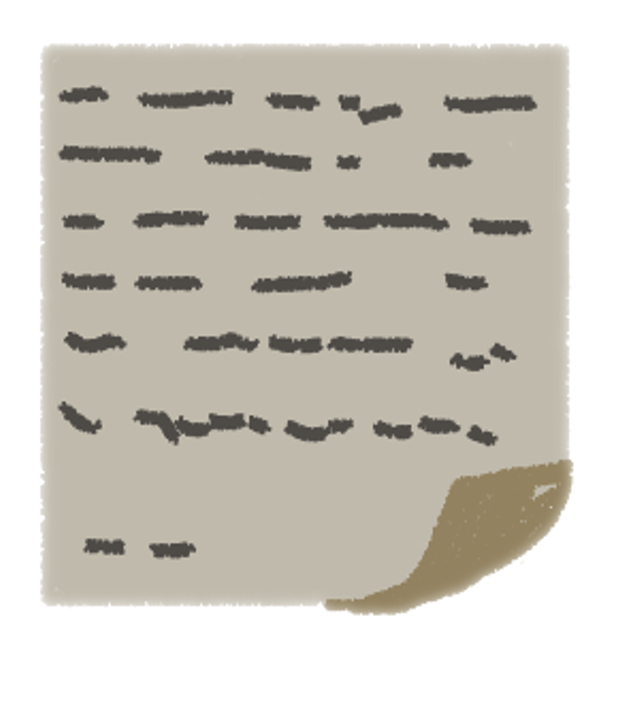
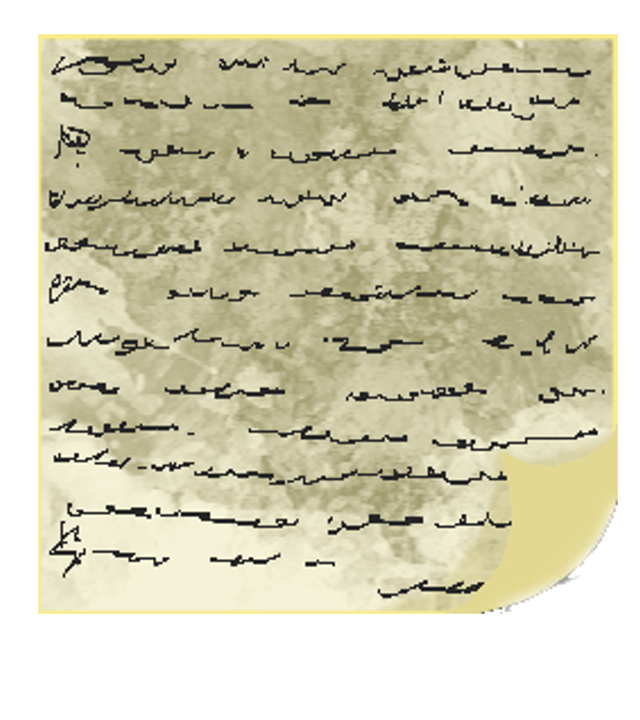
updated art

diff --git a/web/game.min.js b/web/game.min.js
@@ -483,7 +483,7 @@ return choices;},getTags:function(){return this.story.currentTags;},processTags:
 for(var j in this.tagLackHandlers){if(!usedTags[j]){this.tagLackHandlers[j]();}}}});});
 
 // lib/game/menu/daily.js
-ig.baked=true;ig.module('game.menu.daily').requires('impact.image','plugins.ss.menu.menu').defines(function(){ss.MenuImageOption=ss.MenuOption.extend({image:undefined,init:function(menu,image,action,x,y,padding,visible){this.parent(menu,function(){return"";},action,x,y,ig.Font.ALIGN.LEFT,padding,visible);if(image instanceof ig.Image===false)throw"image must be an ig.Image!";this.image=image;this.width=this.image.width;this.height=this.image.height;this.selectTarget.x=this.x-this.padding;this.selectTarget.y=this.y-this.padding;this.selectTarget.width=this.width+(this.padding*2);this.selectTarget.height=this.height+(this.padding*2);this.createTouchButton();},updateText:function(){return"";},draw:function(){this.image.draw(this.x,this.y);}});DailyMenu=ss.Menu.extend({useText:false,inkStory:undefined,inkStoryChoices:undefined,Page:{MAIN:0},day:0,actions:{prev:["up","left"],next:["down","right"],select:["primary"],back:["secondary"]},images:{briggs:new ig.Image('media/desk/briggs.png'),custer:new ig.Image('media/desk/custer.png'),doherty:new ig.Image('media/desk/doherty.png'),hughes:new ig.Image('media/desk/hughes.png'),wiley:new ig.Image('media/desk/wiley.png'),note:new ig.Image('media/desk/note.png')},init:function(inkStory,inkStoryChoices,day)
+ig.baked=true;ig.module('game.menu.daily').requires('impact.image','plugins.ss.menu.menu').defines(function(){ss.MenuImageOption=ss.MenuOption.extend({image:undefined,init:function(menu,image,action,x,y,padding,visible){this.parent(menu,function(){return"";},action,x,y,ig.Font.ALIGN.LEFT,padding,visible);if(image instanceof ig.Image===false)throw"image must be an ig.Image!";this.image=image;this.width=this.image.width;this.height=this.image.height;this.selectTarget.x=this.x-this.padding;this.selectTarget.y=this.y-this.padding;this.selectTarget.width=this.width+(this.padding*2);this.selectTarget.height=this.height+(this.padding*2);this.createTouchButton();},updateText:function(){return"";},draw:function(){this.image.draw(this.x,this.y);}});DailyMenu=ss.Menu.extend({useTrueFont:true,trueFont:new ss.TrueFont("Cavalcade",36,"#666","/fonts/Cavalcade/Cavalcade-Regular.css"),useSideCursorImage:true,sideCursorImage:new ig.Image("media/side-cursor.png"),inkStory:undefined,inkStoryChoices:undefined,Page:{MAIN:0},day:0,actions:{prev:["up","left"],next:["down","right"],select:["primary"],back:["secondary"]},images:{briggs:new ig.Image('media/desk/briggs.png'),custer:new ig.Image('media/desk/custer.png'),doherty:new ig.Image('media/desk/doherty.png'),hughes:new ig.Image('media/desk/hughes.png'),wiley:new ig.Image('media/desk/wiley.png'),note:new ig.Image('media/desk/note.png')},init:function(inkStory,inkStoryChoices,day)
 {this.inkStory=inkStory;this.inkStoryChoices=inkStoryChoices;this.startBlinkTimer=new ig.Timer();this.createMenuOptions();ss.GlobalDialogManager.dialogIsActive=false;this.day=day;this.parent();},createMenuOptions:function()
 {var menu=this;var options=[[]];var show={wiley:false,briggs:false,doherty:false,hughes:false,custer:false};for(var i=0;i<this.inkStoryChoices.length;i++){for(var j in show){if(this.inkStoryChoices[i].toLowerCase().includes(j)){show[j]=true;}}}
 options[menu.Page.MAIN].push(new ss.MenuImageOption(menu,this.images.note,function(){menu.inkStory.dailyMenuChosen("note");},544,340));if(show.wiley)

diff --git a/web/lib/game/menu/daily.js b/web/lib/game/menu/daily.js
@@ -31,7 +31,11 @@ ss.MenuImageOption = ss.MenuOption.extend({
 
 DailyMenu = ss.Menu.extend({
 
-    useText: false,
+    useTrueFont: true,
+    trueFont: new ss.TrueFont("Cavalcade", 36, "#666", "/fonts/Cavalcade/Cavalcade-Regular.css"),
+
+    useSideCursorImage: true,
+    sideCursorImage: new ig.Image("media/side-cursor.png"),
 
     inkStory: undefined,
     inkStoryChoices: undefined,
